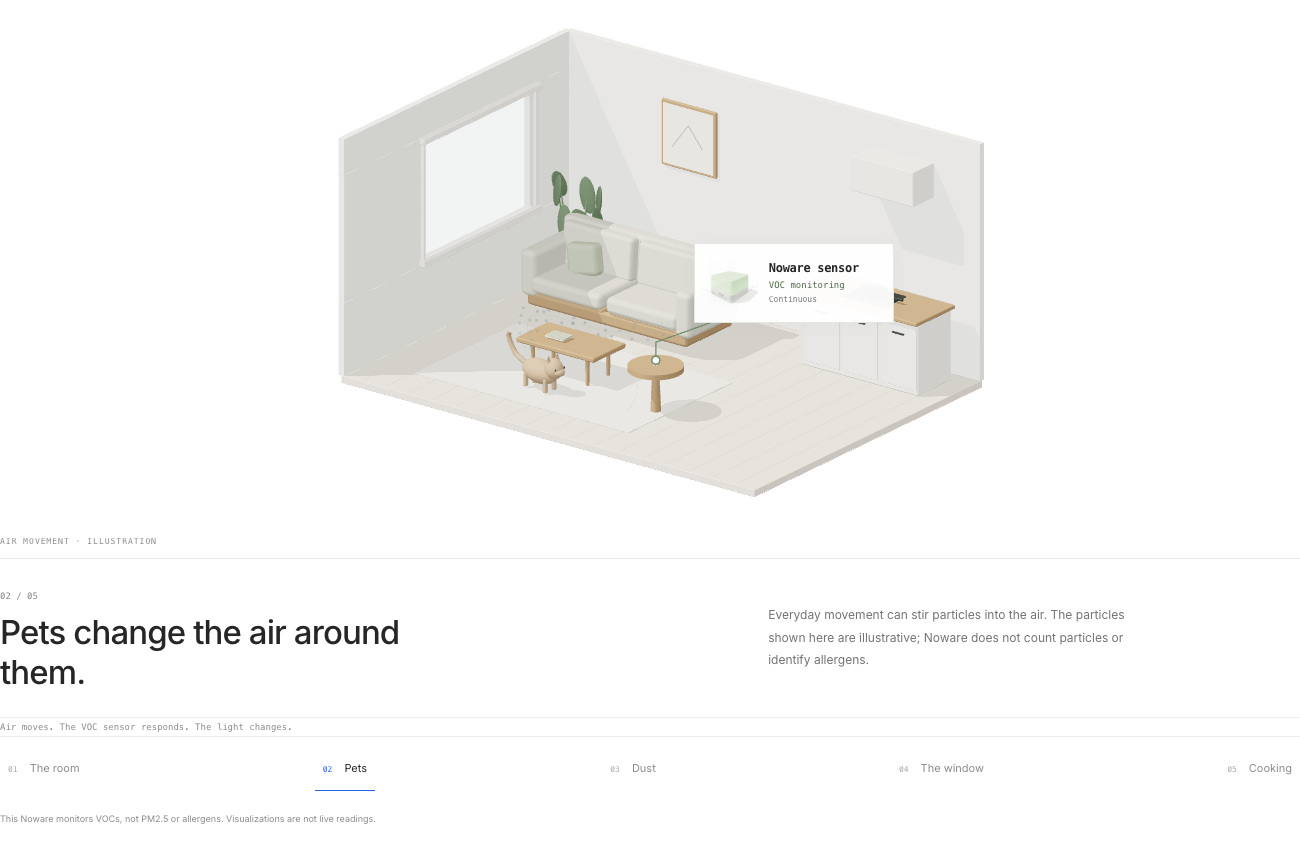
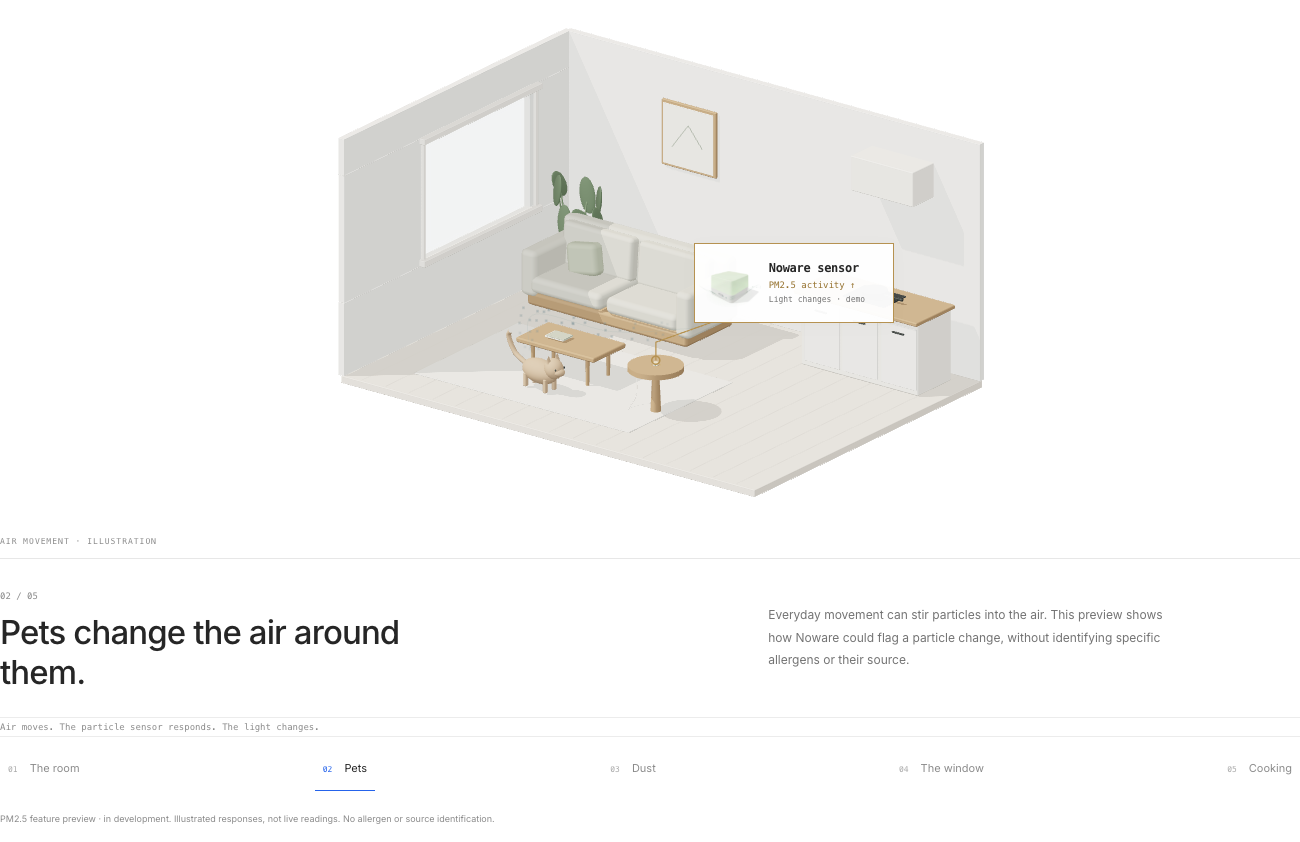
Preview developing PM2.5 sensing across room events

diff --git a/src/purpose/index.js b/src/purpose/index.js
@@ -2,11 +2,11 @@ import './purpose.css';
 import {roomChapters,roomChapterAt} from './story.js';
 export function mountPurpose(){
  const section=document.createElement('section');section.id='what-it-does';section.className='purpose-story';section.setAttribute('aria-labelledby','purpose-title');
- section.innerHTML=`<div class="purpose-heading"><span class="purpose-eyebrow">WHAT DOES IT DO?</span><h2 id="purpose-title">Noware watches<br>the air around you.</h2><p>It continuously monitors VOCs, temperature, and humidity—helping you understand changes in the air around you.</p></div>
- <div class="room-scroll"><div class="room-sticky"><div class="room-stage"><picture><source media="(max-width:700px)" srcset="/showcase/room/poster-mobile.webp"><img class="room-poster" src="/showcase/room/poster.webp" width="1440" height="750" alt="A bright living room with a sofa, cat, kitchen, window, and Noware on a small side table."></picture><div class="room-canvas"></div><svg class="room-device-leader" aria-hidden="true"><path/><circle r="4"/></svg><div class="room-device-label"><img src="/showcase/poster.webp" alt="" width="64" height="64"><div><span>Noware sensor</span><strong>VOC monitoring</strong><small>Continuous</small></div></div><span class="room-illustration">AIR MOVEMENT · ILLUSTRATION</span></div>
+ section.innerHTML=`<div class="purpose-heading"><span class="purpose-eyebrow">WHAT DOES IT DO?</span><h2 id="purpose-title">Noware watches<br>the air around you.</h2><p>PM2.5 sensing is in development. Preview how Noware will help you notice changes in fine particles in the air around you.</p></div>
+ <div class="room-scroll"><div class="room-sticky"><div class="room-stage"><picture><source media="(max-width:700px)" srcset="/showcase/room/poster-mobile.webp"><img class="room-poster" src="/showcase/room/poster.webp" width="1440" height="750" alt="A bright living room with a sofa, cat, kitchen, window, and Noware on a small side table."></picture><div class="room-canvas"></div><svg class="room-device-leader" aria-hidden="true"><path/><circle r="4"/></svg><div class="room-device-label"><img src="/showcase/poster.webp" alt="" width="64" height="64"><div><span>Noware sensor</span><strong>PM2.5 preview</strong><small>Continuous</small></div></div><span class="room-illustration">AIR MOVEMENT · ILLUSTRATION</span></div>
  <div class="room-caption" aria-live="polite" aria-atomic="true"><div><span class="room-count">01 / 05</span><h3>${roomChapters[0].title}</h3></div><p>${roomChapters[0].body}</p></div>
- <div class="room-playback"><button type="button" class="room-play" aria-label="Pause illustration">Pause illustration <span aria-hidden="true">Ⅱ</span></button><span class="room-sequence">Air moves. The VOC sensor responds. The light changes.</span></div>
- <nav class="room-chapters" aria-label="Explore everyday changes in the room">${roomChapters.map((s,i)=>`<button type="button" data-room-chapter="${i}" aria-current="${i===0?'step':'false'}"><span>0${i+1}</span>${s.name}</button>`).join('')}<button type="button" class="room-resume" hidden>Follow scroll ↓</button></nav><p class="room-note">This Noware monitors VOCs, not PM2.5 or allergens. Visualizations are not live readings.</p><p class="room-fallback" role="status" hidden>The room preview is shown. Use the chapter controls to explore the story.</p></div></div>
+ <div class="room-playback"><button type="button" class="room-play" aria-label="Pause illustration">Pause illustration <span aria-hidden="true">Ⅱ</span></button><span class="room-sequence">Air moves. The particle sensor responds. The light changes.</span></div>
+ <nav class="room-chapters" aria-label="Explore everyday changes in the room">${roomChapters.map((s,i)=>`<button type="button" data-room-chapter="${i}" aria-current="${i===0?'step':'false'}"><span>0${i+1}</span>${s.name}</button>`).join('')}<button type="button" class="room-resume" hidden>Follow scroll ↓</button></nav><p class="room-note">PM2.5 feature preview · in development. Illustrated responses, not live readings. No allergen or source identification.</p><p class="room-fallback" role="status" hidden>The room preview is shown. Use the chapter controls to explore the story.</p></div></div>
  <div class="purpose-ending"><h2>Know what’s changing your air.</h2><p>See when it gets worse. Understand what happened.<br>Know when it’s getting better.</p><span>Made in America.</span></div>`;
  document.querySelector('.hardware-origin').replaceWith(section);
  const finale=document.createElement('section');finale.id='size-intro';finale.className='purpose-size';finale.innerHTML=`<div><span class="purpose-eyebrow">SMALL BY DESIGN</span><h2>All that.<br>About the size of an egg.</h2><p>A familiar reference for a surprisingly small object.</p></div><button class="purpose-size-open" type="button" aria-expanded="false" aria-controls="size">See the size comparison <span aria-hidden="true">↗</span></button>`;section.after(finale);
@@ -22,7 +22,7 @@ export function mountPurpose(){
  const observer=new IntersectionObserver(async([entry])=>{if(!entry.isIntersecting)return;observer.disconnect();try{const {createRoom}=await import('./room.js');if(dead)return;scene=await createRoom(section.querySelector('.room-canvas'),state,(chapter,local,detection)=>{
  sync(false);
  const strong=section.querySelector('.room-device-label strong'),label=section.querySelector('.room-device-label small');
- const phases={monitoring:['VOC monitoring','Continuous'],air:['Ambient air moves','Illustration'],sensing:['VOC sensor responds','Illustration'],signal:['VOC change detected','Light changes · demo'],settling:['VOC indication','Settling · illustrated']};
+ const phases={monitoring:['PM2.5 preview','In development'],air:['Ambient air moves','Illustration'],sensing:['Sensor responds','Illustration'],signal:['PM2.5 activity ↑','Light changes · demo'],settling:['PM2.5 activity','Settling · illustrated']};
  const text=phases[detection.phase];if(strong.textContent!==text[0])strong.textContent=text[0];if(label.textContent!==text[1])label.textContent=text[1];section.dataset.detection=detection.phase;
  });if(dead)scene.dispose();else sync()}catch(error){section.classList.add('room-unavailable');section.querySelector('.room-fallback').hidden=false;console.warn('Room story uses its poster fallback:',error.message)}},{rootMargin:'300px'});observer.observe(section);
  const dispose=()=>{dead=true;observer.disconnect();scene?.dispose();window.removeEventListener('scroll',scroll);reduced.removeEventListener('change',preference);mobile.removeEventListener('change',preference)};if(import.meta.hot)import.meta.hot.dispose(dispose);return dispose;

diff --git a/src/purpose/story.js b/src/purpose/story.js
@@ -1,10 +1,9 @@
-// Particle sensing is NOT present in the documented Base hardware.
-// Keep environmental illustrations distinct from the device's verified VOC response.
+// Owner confirms PM2.5 is in development; sensor model/specifications are not finalized.
 export const roomChapters=[
- {name:'The room',title:'You can’t see most of what’s in your air.',body:'A room can look exactly the same while its air changes. Noware continuously monitors VOCs, temperature, and humidity.',signal:'VOC monitoring',status:'Continuous'},
- {name:'Pets',title:'Pets change the air around them.',body:'Everyday movement can stir particles into the air. The particles shown here are illustrative; Noware does not count particles or identify allergens.',signal:'VOC monitoring',status:'Continuous'},
- {name:'Dust',title:'Dust doesn’t stay on the floor.',body:'For allergy-conscious homes, humidity matters. Excess moisture can encourage mold and dust mites. Noware tracks humidity—it doesn’t detect allergens or prevent allergies.',signal:'VOC monitoring',status:'Continuous'},
- {name:'The window',title:'Outside air becomes inside air.',body:'Opening a window changes the air moving through a room. Noware monitors VOC conditions; it does not identify outdoor particles.',signal:'VOC monitoring',status:'Continuous'},
- {name:'Cooking',title:'Cooking can change your air in minutes.',body:'Cooking can release VOCs. Noware responds to changes in these gases with a color-coded light, helping you notice when conditions change.',signal:'VOC indication',status:'Change illustrated'},
+ {name:'The room',title:'You can’t see most of what’s in your air.',body:'A room can look exactly the same while its air changes. Noware’s PM2.5 feature is being developed to help you notice fine-particle changes.',signal:'PM2.5 preview',status:'In development'},
+ {name:'Pets',title:'Pets change the air around them.',body:'Everyday movement can stir particles into the air. This preview shows how Noware could flag a particle change, without identifying specific allergens or their source.',signal:'PM2.5 preview',status:'In development'},
+ {name:'Dust',title:'Dust doesn’t stay on the floor.',body:'Disturb a cushion and particles can become airborne. For allergy-conscious homes, Noware is being designed to make fine-particle changes easier to notice—it doesn’t identify allergens or prevent allergies.',signal:'PM2.5 preview',status:'In development'},
+ {name:'The window',title:'Outside air becomes inside air.',body:'An open window can let outdoor particles inside. This preview illustrates how Noware could show a rise in fine particles.',signal:'PM2.5 preview',status:'In development'},
+ {name:'Cooking',title:'Cooking can change your air in minutes.',body:'Cooking can release airborne particles. Preview a PM2.5 response as levels rise—and an indication that settles as they fall.',signal:'PM2.5 preview',status:'Change illustrated'},
 ];
 export const roomChapterAt=p=>Math.min(roomChapters.length-1,Math.floor(Math.max(0,Math.min(1,p))*roomChapters.length));

diff --git a/src/purpose/room.js b/src/purpose/room.js
@@ -63,7 +63,7 @@ export async function createRoom(host,state,onReady){
  pillow.rotation.z=.18+(chapter===2?Math.sin(local*Math.PI*4)*.16*Math.sin(local*Math.PI):0);pillow.position.y=.59+(chapter===2?Math.sin(local*Math.PI*2)**2*.11:0);sash.rotation.y=chapter===3?-.48*activity:chapter>3?-.48:0;
  const detection=detectionPose(progress);
  for(let source=0;source<curves.length;source++){
-  const strength=flowActivity(progress,source),head=source===3?detection.arrival:1;
+  const strength=flowActivity(progress,source),head=smooth((progress-(.2+source*.2))/.04);
   trails[source].material.opacity=strength*(source===3?.4:.18);trails[source].geometry.setDrawRange(0,Math.max(0,Math.floor(head*80)));
   for(let j=0;j<40;j++){
    const i=source*40+j,life=(j/40+(state.reduced?0:time*.13))%1;
@@ -80,7 +80,7 @@ export async function createRoom(host,state,onReady){
  anchor.style.left=`${labelX}px`;anchor.style.top=`${labelY}px`;
  leader.querySelector('path').setAttribute('d',`M ${px} ${py} L ${px} ${py-18} L ${labelX+18} ${labelY+anchor.offsetHeight}`);
  leader.querySelector('circle').setAttribute('cx',px);leader.querySelector('circle').setAttribute('cy',py);
- // Only a verified VOC scene may illustrate the light changing; particle-only scenes do not drive it.
+ // Owner-confirmed particle revision; illustrative response, not measured data.
  const response=detection.response;const tint=new T.Color('#91d980').lerp(new T.Color('#e6bd61'),response);diffuser.material.emissive.copy(tint);diffuser.material.color.copy(new T.Color('#f5f1df').lerp(tint,.55));
  renderer.render(scene,camera);host.dataset.detection=detection.phase;host.dataset.response=response.toFixed(3);host.dataset.chapter=chapter;host.dataset.ready='true';host.dataset.progress=progress.toFixed(3);host.parentElement.classList.add('room-ready');onReady?.(chapter,local,detection);
  if((!state.reduced&&state.mode!=='paused')||Math.abs(progress-state.progress)>.001)raf=requestAnimationFrame(render);

diff --git a/tests/room-flow.test.js b/tests/room-flow.test.js
@@ -1,14 +1,15 @@
 import {test} from 'node:test';
 import assert from 'node:assert/strict';
 import {detectionPose,flowActivity} from '../src/purpose/flow.js';
-test('VOC indication follows illustrated air arrival and sensor response, then settles',()=>{
+test('Particle indication follows illustrated air arrival and sensor response, then settles',()=>{
  assert.equal(detectionPose(.8).response,0);
  assert.equal(detectionPose(.845).arrival,1);
  assert.equal(detectionPose(.845).response,0);
  assert.equal(detectionPose(.89).sensing,1);
  assert.ok(detectionPose(.89).response>0);
  assert.equal(detectionPose(1).response,0);
- for(let i=0;i<840;i++)assert.equal(detectionPose(i/1000).sensing,0,'No pet/dust event should produce a VOC detection animation');
+ for(const offset of [0,.2,.4,.6]){assert.equal(detectionPose(.22+offset).response,0);assert.ok(detectionPose(.29+offset).response>0);assert.ok(detectionPose(.3999+offset).response<.001)}
+ for(let i=0;i<200;i++)assert.equal(detectionPose(i/1000).sensing,0);
 });
 test('successive air illustrations overlap instead of switching emitters abruptly',()=>{
  for(const [p,a,b] of [[.38,0,1],[.58,1,2],[.77,2,3]]){assert.ok(flowActivity(p,a)>0);assert.ok(flowActivity(p,b)>0)}

diff --git a/src/purpose/flow.js b/src/purpose/flow.js
@@ -14,9 +14,12 @@ export function flowActivity(progress,source){
  return ease((progress-start)/.065)*(1-ease((progress-end)/.065));
 }
 export function detectionPose(progress){
- const arrival=ease((progress-.74)/.1);
- const sensing=ease((progress-.84)/.025)*(1-ease((progress-.95)/.05));
- const response=ease((progress-.865)/.045)*(1-ease((progress-.95)/.05));
- const phase=progress<.74?'monitoring':progress<.84?'air':progress<.865?'sensing':progress<.95?'signal':'settling';
+ // One reversible arrival → sensing → response → recovery per everyday event.
+ const source=Math.max(0,Math.min(3,Math.floor(progress*5)-1));
+ const local=progress-source*.2;
+ const arrival=ease((local-.2)/.04);
+ const sensing=ease((local-.24)/.025)*(1-ease((local-.35)/.05));
+ const response=ease((local-.265)/.045)*(1-ease((local-.35)/.05));
+ const phase=progress<.2?'monitoring':local<.24?'air':local<.265?'sensing':local<.35?'signal':'settling';
  return {arrival,sensing,response,phase};
 }

diff --git a/public/showcase/room/README.md b/public/showcase/room/README.md
@@ -5,15 +5,16 @@ This scene is original procedural Three.js geometry created for NOWARE: sofa and
 The existing `../aircube-base.glb` is loaded as an independent instance and uniformly scaled from millimeters to meters (0.001), on the side table. Existing CAD provenance and license notices remain in `../README.md` and its referenced files. The 49 mm device is naturally small in the room; a DOM leader identifies its location rather than inflating it relative to the furniture.
 
 ## Hardware accuracy
-Verified 2026-10-11 against the [current manufacturer page](https://stuckatprototype.com/products/aircube), [source repository](https://github.com/StuckAtPrototype/AirCube), and the local assembly: Base senses VOCs, temperature and humidity; Pro adds direct CO₂ and ambient-light sensing. Neither documented package includes a PM2.5 sensor.
+On 2026-10-11, the owner confirmed that Noware uses a different revision with a particle sensor. This confirmation supersedes the former restriction to the public AirCube Base sensor list. The room narrative now illustrates particle activity in pet, dust, window, and cooking events. It does not identify the source automatically, identify allergens, or claim allergy prevention.
 
-The requested PM2.5 numbers, particle-activity detection, and allergy-related claims are therefore not implemented. Pets, disturbed cushions and incoming window air are environmental illustrations, explicitly distinct from measurements. Only the cooking chapter illustrates a VOC-related light response and recovery. There are no invented concentrations, pollutant thresholds or allergen identifications. Particle positions, counts, colors and speeds do not represent sensor data. This distinction must remain unless a different particle-sensing hardware revision is verified.
+The particle sensor model, supported particle-size channels (including PM2.5), units, thresholds, and actual firmware behavior remain unconfirmed. No numeric readings, PM2.5 labels, or measured response times are shown. Light changes and air paths are an illustrative demo, not live measurements or validated fluid simulation.
 
-The user has been asked whether a different PM-capable revision exists; that question remains unresolved. Scene copy is isolated in `src/purpose/story.js` for an evidence-based update when specifications are supplied.
+The existing GLB is still the original Base enclosure/assembly. It has NOT been updated to represent the new revision’s internal sensor or sensing openings. Updated engineering files are needed to make the exploded internals revision-accurate. Source geometry provenance remains in `../README.md`.
 
 ## Posters
 `poster.webp` and `poster-mobile.webp` are rendered from the same scene using `node scripts/purpose/check.mjs` with local Chrome. Run Vite at port 5177 first, or set `TEST_URL`. The static fallback preserves chapter copy and keyboard controls when GLB loading or WebGL is unavailable. It does not animate the room.
 
-The continuous playback uses four overlapping paths configured in `src/purpose/flow.js`. Cooking air passes above the enclosure and continues beyond it; it is not sucked into the device. A schematic ring identifies the sensing area, followed by a diffuser response. The path, timing, pulse, and light response are explanatory animation, not a validated internal flow route or measured sensor latency. Playback runs once, with pause/replay and optional scroll control; reduced-motion visitors see static poses.
+The continuous playback uses four overlapping paths configured in `src/purpose/flow.js`. Each event has an illustrative arrival, sensing pulse, light response, and recovery. Paths pass through the room without suction or filtration imagery. Playback runs once, with pause/replay and optional scroll control; reduced-motion visitors see static poses.
 
-Allergy-related copy in the Dust chapter connects the verified humidity measurement to moisture awareness, without claiming allergen detection or allergy prevention. Basis: [EPA guidance on biological contaminants and excess moisture](https://www.epa.gov/indoor-air-quality-iaq/biological-contaminants-and-indoor-air-quality), reviewed 2026-10-11. The animated particles remain illustrative.
+### Latest owner clarification — PM2.5 in development
+The owner subsequently clarified that PM2.5 sensing is still being developed, with the final sensor model and specifications undecided. Public copy therefore identifies this as a PM2.5 feature preview in development, rather than a shipping capability. No “high-end,” accuracy, certification, numeric concentration, threshold, or allergy-prevention claim is made. Earlier generic particle confirmation above is superseded by this development status.

diff --git a/scripts/purpose/HANDOFF.md b/scripts/purpose/HANDOFF.md
@@ -16,9 +16,12 @@ Run `npm run dev -- --port 5177`; open http://localhost:5177/home.html#what-it-d
 
 Build: `npm run build`; tests: `npm test`. No lint/typecheck script exists. Existing shared Three.js bundle-size warning remains. Chrome headless validates layout and behavior, not physical-device frame rate.
 
-Important unresolved product-specification issue: current Base hardware has no documented particulate sensor. Requested numeric PM2.5 demonstrations and allergy-detection implications are not shipped in this version. The room/environment story is implemented, but those product claims require verified hardware support. See the asset README for sources and exact limitations.
+The owner confirmed a particle-sensing Noware revision on 2026-10-11. Room copy now explains generic particle changes. Sensor model, PM2.5 support, thresholds, and revised internal CAD remain unconfirmed. The existing hero/room GLB still represents the earlier assembly; no new sensor geometry is invented. See the asset README for the remaining boundaries.
 
 ## Continuous illustration update
-The same room now plays once over 24 seconds when visible. Four overlapping air paths keep continuity between activities; the cooking example stages ambient-air arrival, a VOC sensing pulse, a delayed light response, and recovery. Pause/play and replay are available. Chapter controls skip within the same scene; Follow scroll explicitly hands progress to reversible scrolling. Reduced motion uses static chapter poses. Offscreen/hidden rendering pauses.
+The same room now plays once over 24 seconds when visible. Four overlapping air paths keep continuity between activities; each event stages ambient-air arrival, a particle sensing pulse, a delayed light response, and recovery. Pause/play and replay are available. Chapter controls skip within the same scene; Follow scroll explicitly hands progress to reversible scrolling. Reduced motion uses static chapter poses. Offscreen/hidden rendering pauses.
 
-`src/purpose/flow.js` controls duration, source paths, overlap, and response timing. `room.js` controls particle visibility, the pulse, and materials. `tests/room-flow.test.js` checks overlapping source activity and detection ordering. `scripts/purpose/playback.mjs` verifies browser playback and captures the response. The visual paths and response timing are illustrative, not modeled gas transport or measured sensor latency.
+`src/purpose/flow.js` controls duration, source paths, overlap, and response timing. `room.js` controls particle visibility, the pulse, and materials. `tests/room-flow.test.js` checks overlapping source activity and detection ordering. `scripts/purpose/playback.mjs` verifies browser playback and captures the response. The visual paths and response timing are illustrative, not modeled particle transport or measured sensor latency.
+
+### Latest owner clarification — PM2.5 in development
+The owner subsequently clarified that PM2.5 sensing is still being developed, with the final sensor model and specifications undecided. Public copy therefore identifies this as a PM2.5 feature preview in development, rather than a shipping capability. No “high-end,” accuracy, certification, numeric concentration, threshold, or allergy-prevention claim is made. Earlier generic particle confirmation above is superseded by this development status.
